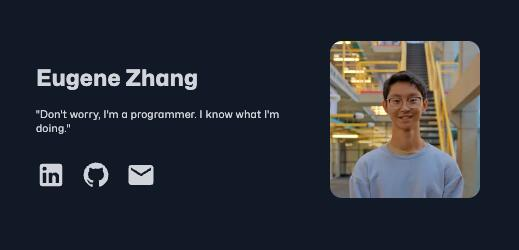
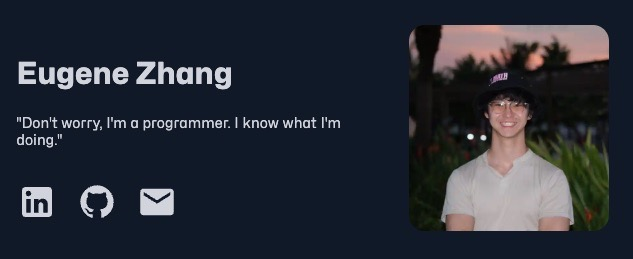
Update headshot & edit thumbnail

diff --git a/pages/index.js b/pages/index.js
@@ -15,8 +15,8 @@ export default function Home({ repos }) {
     <>
       <Seo
         title="Eugene Zhang"
-        desc="Eugene Zhang, a Computer Science student at the University of Waterloo: crafting elegant solutions to complex problems with a curious and agile mind."
-        keywords="Eugene Zhang, University of Waterloo, computer science, software development, programming, coding, web development, software engineering, technology, frontend development, fullstack development, Hack the North, Ignition Hacks, SentiView, journal4me, debugging"
+        desc="Eugene Zhang, a Computer Science student at the University of Waterloo: 'build for the sake of building.'"
+        keywords="Eugene Zhang, University of Waterloo, computer science, software development, programming, coding, web development, software engineering, technology, frontend development, fullstack development, Hack the North, Ignition Hacks, SentiView, journal4me, debugging, Faire"
         path="/"
       />
       <Intro />
